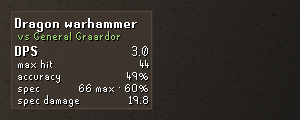
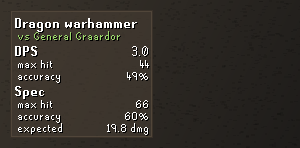
T-067: pictures for master 7644d1c; the example's specs' luck back
- Re-rendered on 7644d1c: the DPS overlay's Spec section (T-077), the
  Defence card's rows (T-076), History's layout (T-082 and the side panel
  tweaks).
- T-076 measures "Not matched" against the attacks as thrown, so the
  specials' luck no longer shows as an empty row (T-067's D-4). The
  Graardor example carries its missed first hammer again: specs 1 s slower.
- CHANGELOG: forced downtime is a neutral "mechanics" line (T-074, T-080).

Claude-Session: https://claude.ai/code/session_01X18etdM16w4AUQNJwybjo9

diff --git a/src/test/java/com/pvmlogs/ReadmePictures.java b/src/test/java/com/pvmlogs/ReadmePictures.java
@@ -547,9 +547,10 @@ public final class ReadmePictures
 				r.magicDefenceEnd = -1;
 				r.specs.put("DRAGON_WARHAMMER", new int[]{hammers.length, specsLanded});
 				fight.recordDrain(r);
-				// The drain's worth as realized. The specs' own share of Luck is left at 0: on master a non-zero share
-				// shows as an empty "Not matched to an attack" row on the Damage card (reported in T-067's status).
-				fight.recordSpecOutcomes(0, 0, drainValue, drainValue);
+				// The first hammer missed, so the drain came one swing late: worse than the average outcome by about
+				// what the drain adds over two swings. That share of Luck is the specs' (T-050).
+				final double shift = 2 * (TENTACLE_DRAINED - TENTACLE_FULL) * TENTACLE_MAX / 2.0;
+				fight.recordSpecOutcomes(shift, 0, drainValue, drainValue + shift);
 			}
 			fight.end(true, now());
 			room.end(now());

diff --git a/CHANGELOG.md b/CHANGELOG.md
@@ -6,6 +6,7 @@ Luck vs Skill is its own Plugin Hub entry. It began as a fork of Arodab's PvM Pe
 **Luck and Execution**
 - Luck as a percentile of how the same attacks could have rolled (bottom 20%, the middle half, top 15%), and the seconds it cost or saved.
 - Execution split into uptime, prayer, gear (armour only: your weapon and ammo are never judged) and stat boost, each in seconds.
+- Downtime the boss forces on you (where a mechanic stops you attacking) isn't lost uptime: it shows as a neutral "mechanics" line.
 - Eating is neutral: its own line, not a cost. At Vardorvis, eating for avoidable damage counts against Execution after the kill, and damage taken says how much was avoidable.
 - Defence drain: the Defence your and your party's specials took, live and after the kill, with each boss's floor, immunity and regeneration; a missed special counts as bad luck, and the drain's worth is shown in seconds.
 
